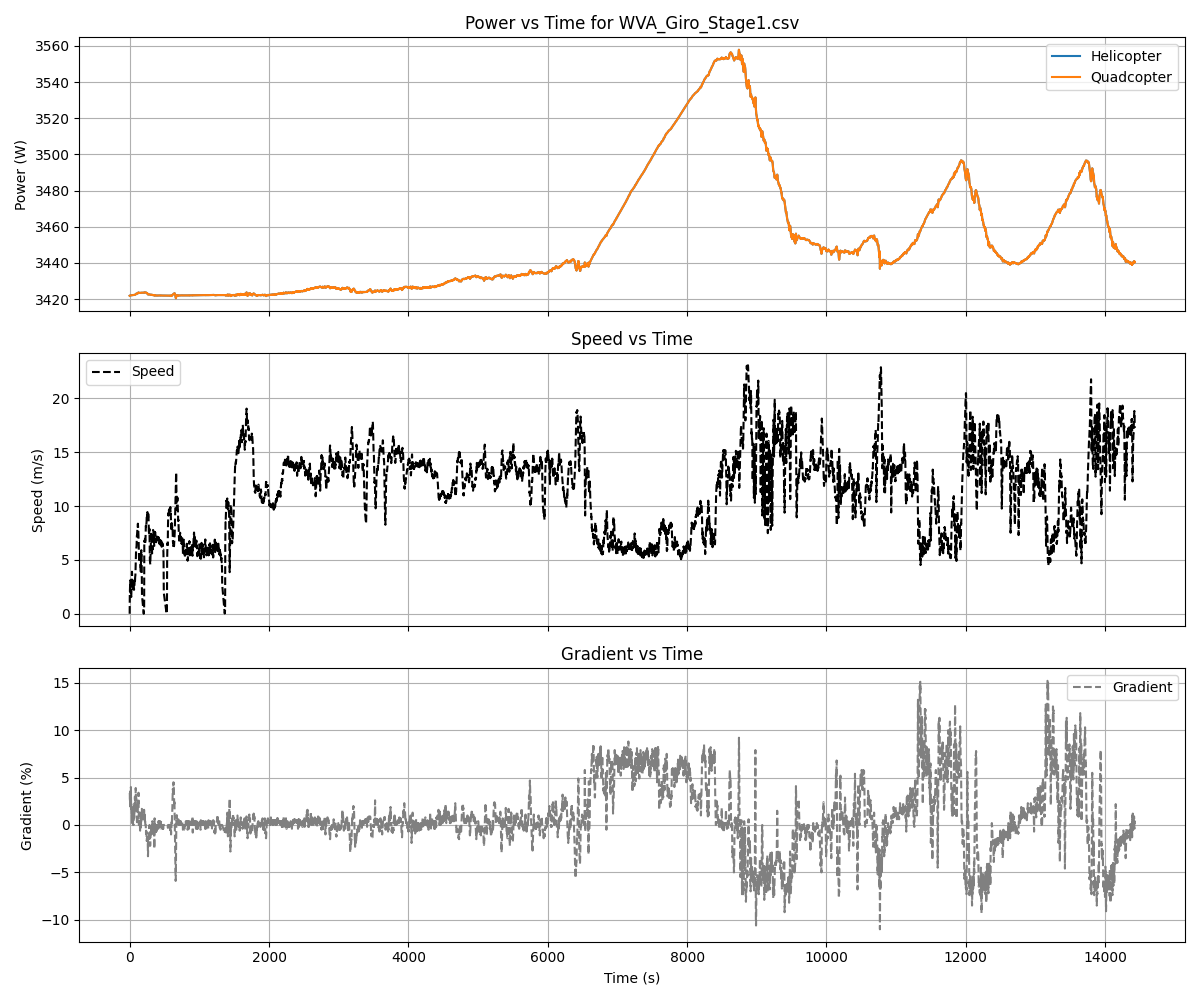
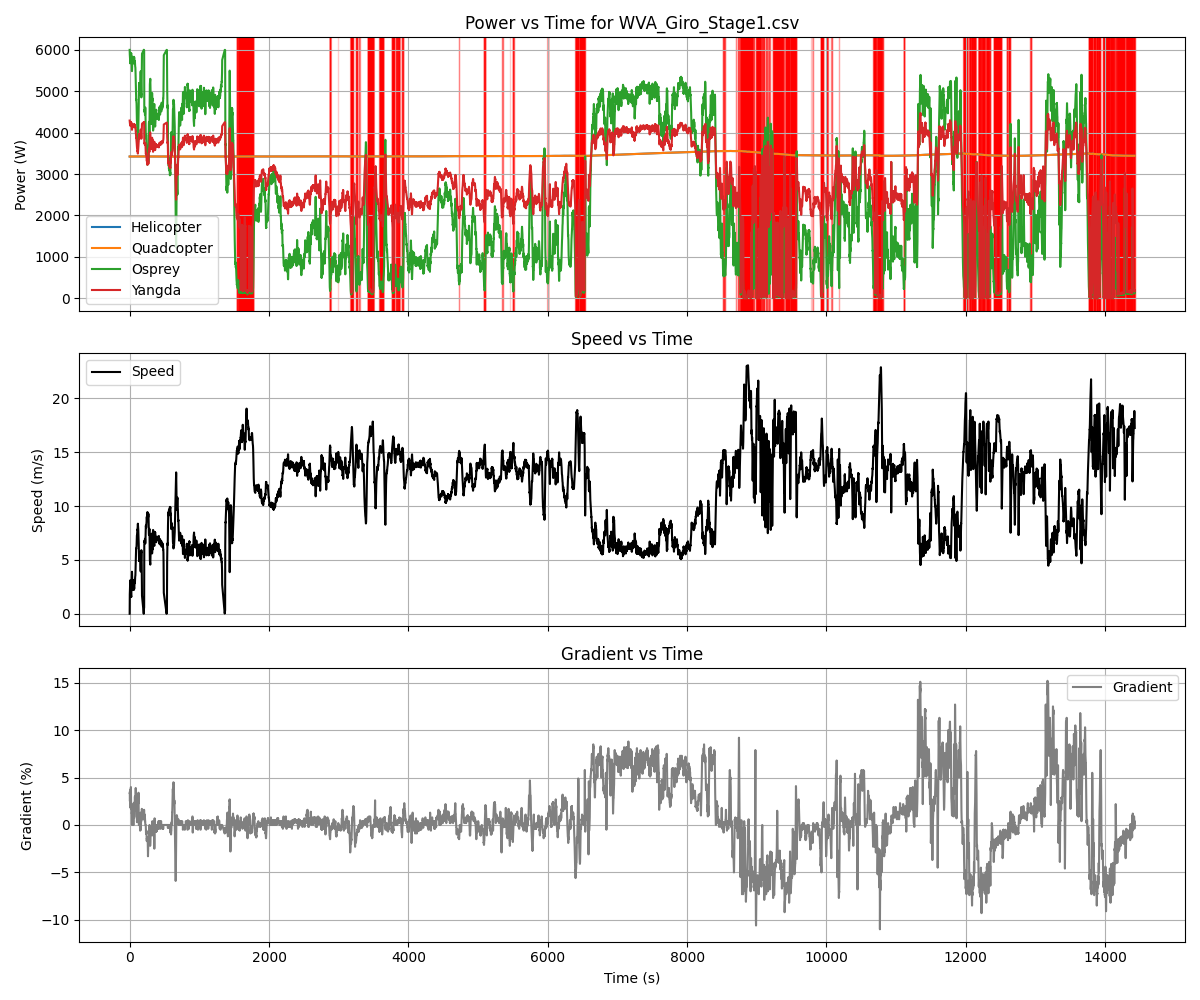
speed profile changes

diff --git a/Battery_Modelling/Modelling/races.py b/Battery_Modelling/Modelling/races.py
@@ -28,6 +28,7 @@ def get_race_results(output_folder="Output"):
             elif i == 3:
                 calculate_power = calculate_power_UFC_MMA_4
                 label = 'Yangda'
+                high_speed_energy_count = 0
             energy = 0
             t = 0
             time_plot = []
@@ -48,13 +49,28 @@ def get_race_results(output_folder="Output"):
                 power_plot.append(P)
                 speed_plot.append(velocity_smooth)
                 gradient_plot.append(row[" grade_smooth"])
+                if i == 3: #Analysing yangda
+                    if velocity_smooth > 15:
+                        high_speed_energy_count += P * time_diff
             race_plot.append([time_plot, power_plot])
             if race_name not in race_results:
                 race_results[race_name] = [0] * 4
             race_results[race_name][i] = energy / 3600  # Store energy in Wh
             axs[0].plot(time_plot, power_plot, label=label)  # Plot power vs time in the first subplot
-        axs[1].plot(time_plot, speed_plot, label='Speed', color='black', linestyle='--')  # Plot speed vs time
-        axs[2].plot(time_plot, gradient_plot, label='Gradient', color='grey', linestyle='--')  # Plot gradient vs time
+
+        # Highlight regions where speed > 15 m/s
+        speed_count = 0
+        for j in range(len(speed_plot) - 1):
+            if speed_plot[j] > 15:
+                axs[0].axvspan(time_plot[j], time_plot[j + 1], color='red', alpha=0.2)
+                speed_count+=1
+        print(f"---------{race_name} Speed Profile---------")
+        print(f"Maximum speed: {max(speed_plot)} m/s")
+        print(f"Speed < 15 m/s (stall): {1-speed_count/len(speed_plot)} of time")
+        print("---------UFC-MMA-4 Yangda---------")
+        print(f"Relative Power use of Yangda when speed < 15 m/s: {1-high_speed_energy_count/race_results[race_name][3]/3600}")
+        axs[1].plot(time_plot, speed_plot, label='Speed', color='black')  # Plot speed vs time
+        axs[2].plot(time_plot, gradient_plot, label='Gradient', color='grey')  # Plot gradient vs time
 
         # Set titles and labels for subplots
         axs[0].set_title(f"Power vs Time for {race_name}")
@@ -105,6 +121,7 @@ def plot_power_vs_velocity():
     plt.show()
 
 def flat_race():
+    print("---------7h Flat Race at 50km/h---------")
     print("UFC-MMA-1 Helicopter Energy (Wh): ",calculate_power_UFC_MMA_1(0,50/3.6,1.225)*7)
     print("UFC-MMA-2 Quadcopter Energy (Wh): ",calculate_power_UFC_MMA_2(0,50/3.6,1.225)*7)
     print("UFC-MMA-3 Osprey Energy (Wh): ",calculate_power_UFC_MMA_3(0,50/3.6,1.225)*7)
